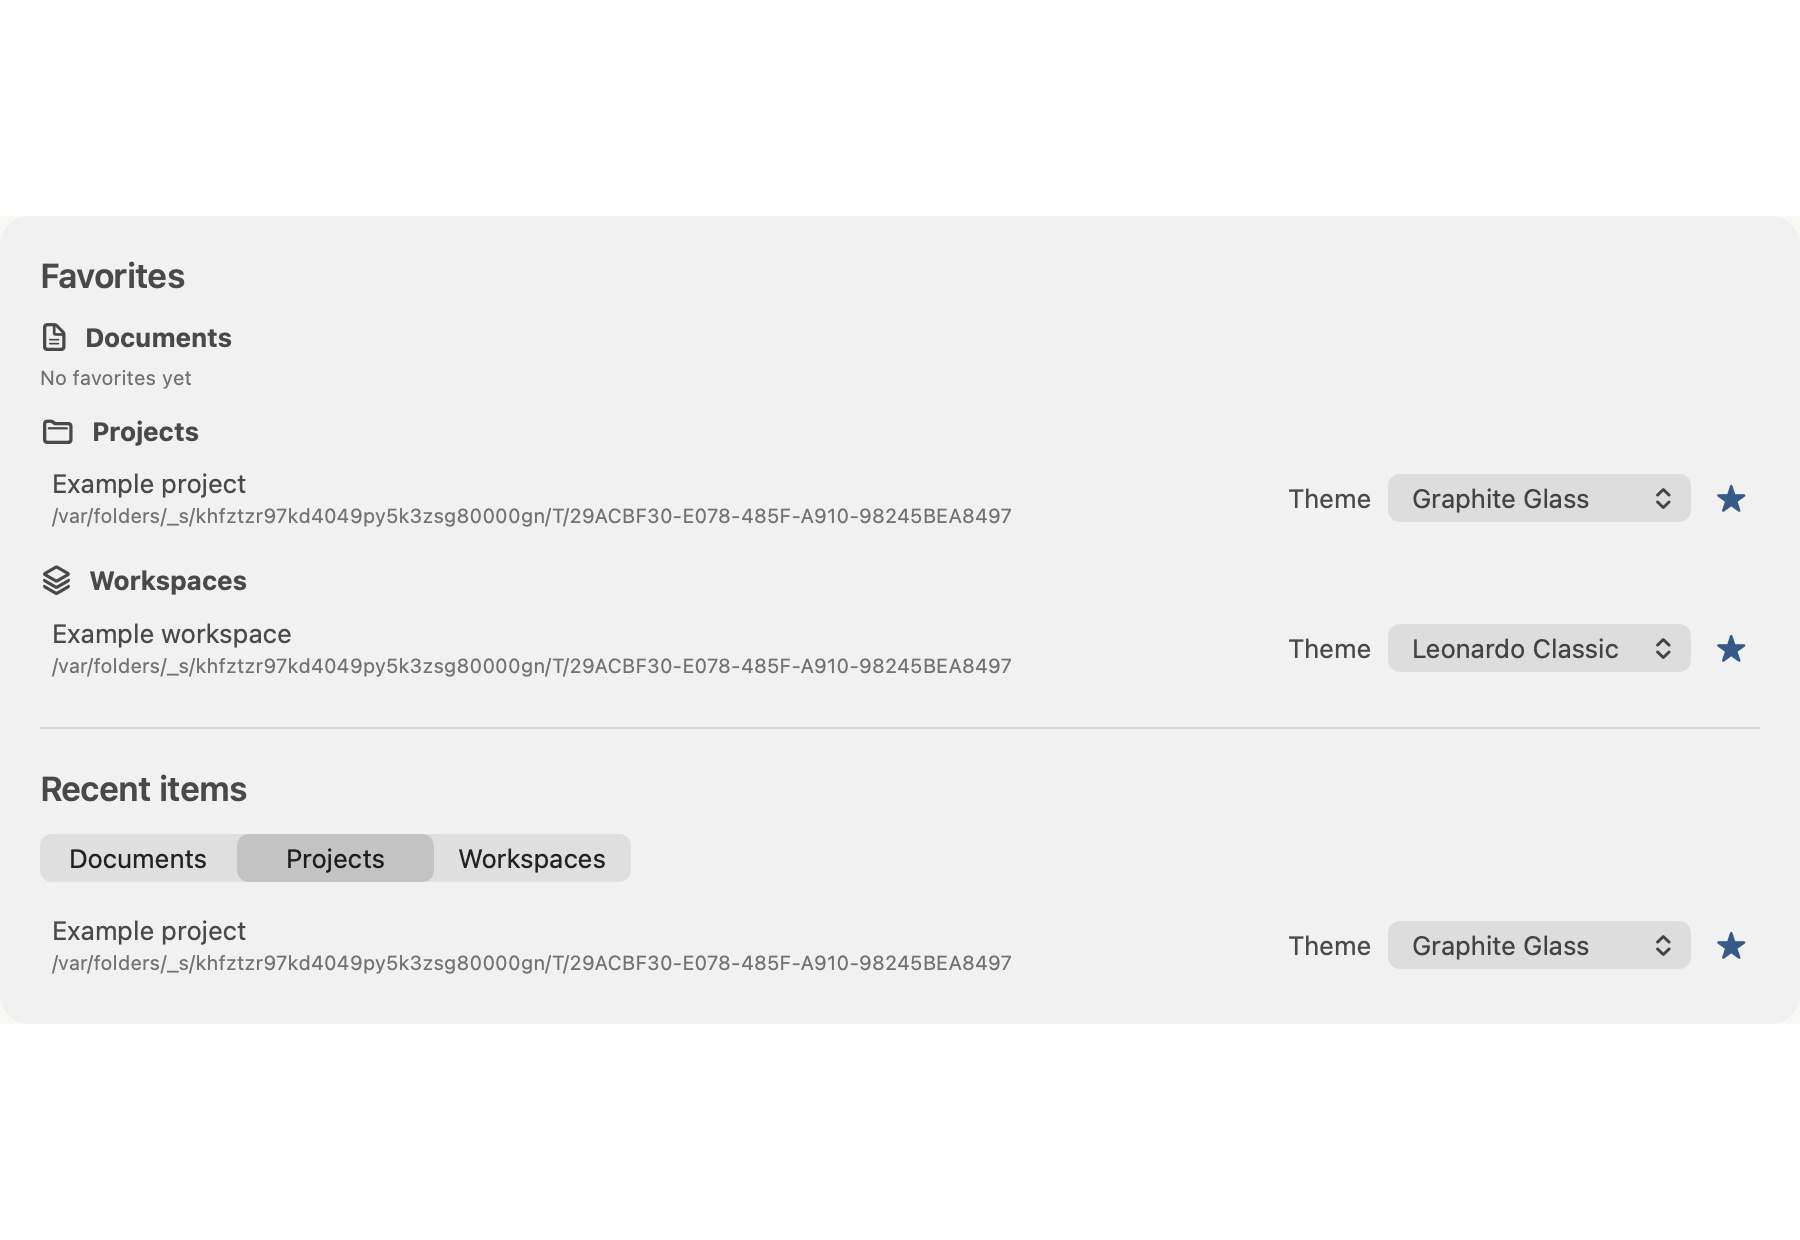
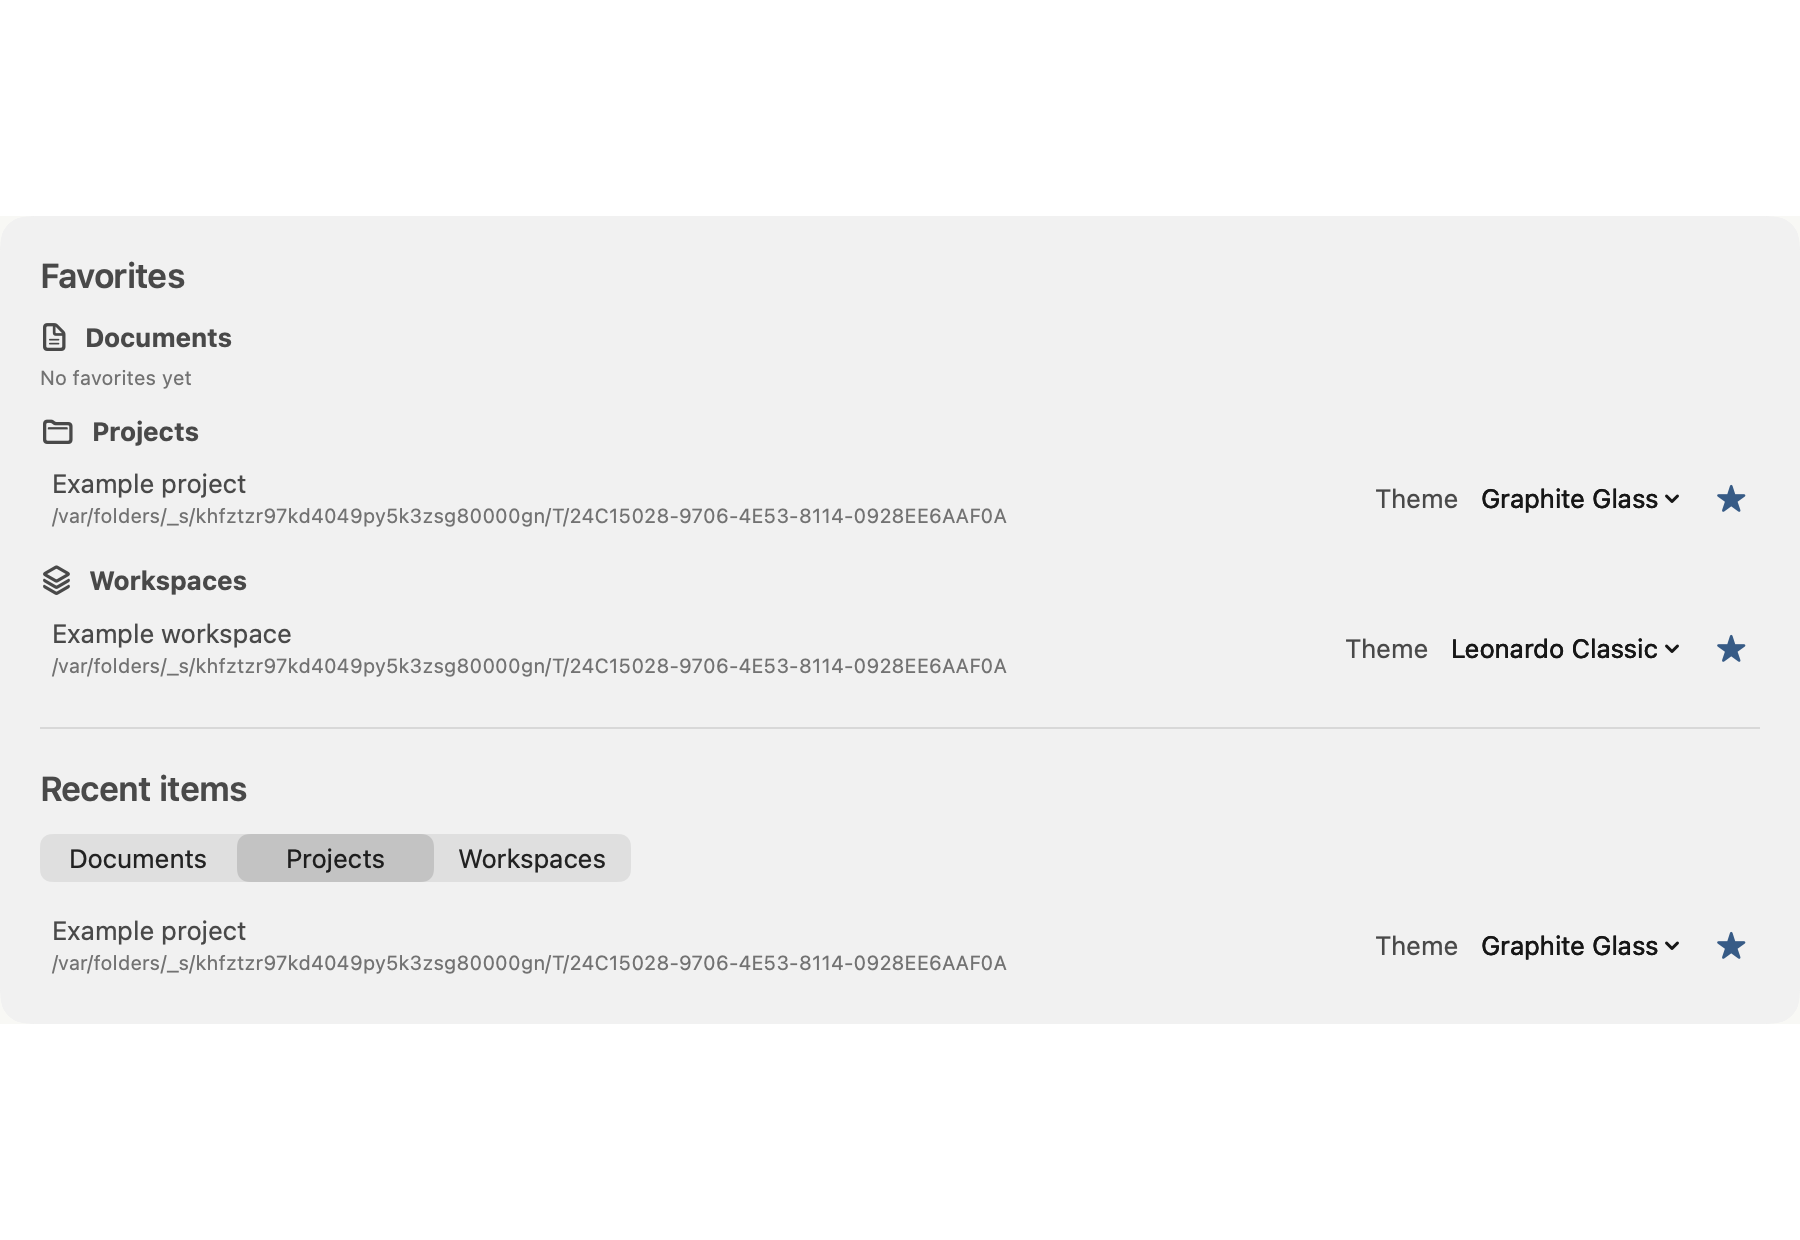
#304 Fixed: keep favorite theme menus readable across appearances (#300)

diff --git a/Sources/LeonardoApp/FavoriteThemePicker.swift b/Sources/LeonardoApp/FavoriteThemePicker.swift
@@ -6,19 +6,38 @@ struct FavoriteThemePicker: View {
     let url: URL
     let kind: FavoriteItem.Kind
 
+    private var selection: Binding<String> {
+        Binding(get: { session.favorite(url, kind: kind)?.palette?.rawValue ?? "inherit" },
+                set: { session.setFavoritePalette(PaletteID(rawValue: $0), for: url, kind: kind) })
+    }
+
+    private var selectedTitle: String {
+        session.favorite(url, kind: kind)?.palette.map { PaletteCatalog.definition(for: $0).displayName }
+            ?? L10n.text("Inherit")
+    }
+
     var body: some View {
-        Picker(L10n.text("Theme"), selection: Binding(
-            get: { session.favorite(url, kind: kind)?.palette?.rawValue ?? "inherit" },
-            set: { session.setFavoritePalette(PaletteID(rawValue: $0), for: url, kind: kind) }
-        )) {
-            Text(L10n.text("Inherit")).tag("inherit")
-            ForEach(PaletteCatalog.all) { palette in
-                Text(palette.displayName).tag(palette.id.rawValue)
+        HStack(spacing: 8) {
+            Text(L10n.text("Theme"))
+            Menu {
+                Picker(L10n.text("Theme"), selection: selection) {
+                    Text(L10n.text("Inherit")).tag("inherit")
+                    ForEach(PaletteCatalog.all) { palette in
+                        Text(palette.displayName).tag(palette.id.rawValue)
+                    }
+                }
+            } label: {
+                Text(selectedTitle)
             }
+            .menuStyle(.borderlessButton)
+            // Native menu labels also read accentColor; keep both tied to session text.
+            .tint(Color(hex: session.palette.tokens.text))
+            .accentColor(Color(hex: session.palette.tokens.text))
+            .help(L10n.text("Theme for this favorite"))
+            .accessibilityLabel(L10n.text("Theme") + ": " + url.lastPathComponent)
+            .accessibilityValue(selectedTitle)
+            .accessibilityIdentifier("favorite-theme-" + kind.rawValue + "-" + url.path)
         }
         .fixedSize()
-        .help(L10n.text("Theme for this favorite"))
-        .accessibilityLabel(L10n.text("Theme") + ": " + url.lastPathComponent)
-        .accessibilityIdentifier("favorite-theme-" + kind.rawValue + "-" + url.path)
     }
 }

diff --git a/Tests/LeonardoAppTests/FavoriteThemeTests.swift b/Tests/LeonardoAppTests/FavoriteThemeTests.swift
@@ -255,13 +255,20 @@ final class FavoriteThemeTests: XCTestCase {
                 .background(session.surfaceColor).modifier(SessionAppearance(session: session)))
             let name = "favorite-themes-\(locale.rawValue)-\(width)"
             try await NativeViewCaptureSupport.capture(view, size: NSSize(width: width, height: 620),
-                to: directory.appendingPathComponent(name + ".png"), title: "Favorite themes QA")
+                to: directory.appendingPathComponent(name + ".png"), title: "Favorite themes QA") { view in
+                    // Keep native host appearance light while the session can be dark.
+                    // This reproduces mixed-appearance rendering from the macOS CI host.
+                    view.appearance = NSAppearance(named: .aqua)
+                    view.window?.appearance = NSAppearance(named: .aqua)
+                    view.layoutSubtreeIfNeeded()
+                }
             let metadata: [String: Any] = [
                 "head": environment["EVIDENCE_SHA"] ?? "unavailable; local source manifest required",
                 "captured_at": ISO8601DateFormatter().string(from: Date()),
                 "surface": "Native NSHostingView SavedItemsView; synthetic project/workspace favorites and starred recent project",
                 "viewport_points": [width, 620], "pixel_dimensions": try NSBitmapImageRep(data: Data(contentsOf: directory.appendingPathComponent(name + ".png"))).map { [$0.pixelsWide, $0.pixelsHigh] } ?? [],
                 "language": locale.rawValue, "palette": palette.rawValue,
+                "native_host_appearance": "Aqua (including the dark session fixture)",
                 "capture_mode": "native component bitmap", "browser": "N/A; AppKit/SwiftUI",
                 "limitations": "Component evidence; no packaged startup or new-process claim"
             ]

diff --git a/doc/user-guide.md b/doc/user-guide.md
@@ -12,6 +12,7 @@ Open documents from the app or Finder’s **Open With** menu. Distribution build
 - **Project:** open a folder, navigate its files, search names and content, and create, rename, move or delete items. Folders load children on expansion. Recent projects appear in the toolbar menu.
 - **Workspace:** select or create a root folder, discover its projects, and create, rename or delete project folders from the workspace manager.
 - **Recent items:** File provides separate document, project and workspace histories. Entries show their parent path; unavailable targets are disabled. Each submenu can clear its own history.
+- **Favorites:** use the stars on Home or File → Favorites to keep documents, projects and workspaces available independently of recent history. Favorite projects and workspaces have a Theme dropdown, also shown on their starred Recent items rows. Opening the same item from Recents uses that association. Inherit restores project/global appearance; a workspace theme takes priority for its contained projects. Leaving the workspace or project context removes its theme override without changing shared project settings.
 - **Focus:** hides project navigation and the inspector while preserving the document and project. Toggle it again to restore those panels.
 - **Reading / Editing / Split:** protected-by-default source and rendered-text editing, shared document undo and an approximately synchronized preview. Unlock the toolbar padlock to edit; use Save or ⌘S to persist changes. Unsaved drafts are marked explicitly and closing or navigating away offers Save, Discard or Cancel. Preview editing preserves untouched Markdown; raw HTML, rendered math and diagrams are edited through the raw Edit view. External file changes reload clean documents; conflicting edits stay protected until you reload or save a copy.
 

diff --git a/doc/validation/favorite-themes/README.md b/doc/validation/favorite-themes/README.md
@@ -1,6 +1,6 @@
 # Favorite appearance
 
-Tracking: [#300](https://github.com/PinedaTec-EU/LeonardoMD/issues/300) and [#303](https://github.com/PinedaTec-EU/LeonardoMD/issues/303).
+Tracking: [#300](https://github.com/PinedaTec-EU/LeonardoMD/issues/300) [#303](https://github.com/PinedaTec-EU/LeonardoMD/issues/303) and [#304](https://github.com/PinedaTec-EU/LeonardoMD/issues/304).
 
 The implementation-owned captures render the actual `SavedItemsView` and
 `FavoriteThemePicker` through the existing XCTest `NativeViewCaptureSupport`
@@ -33,3 +33,10 @@ roundtrips, stable kind/path identity and merging independent appearance changes
 Context-exit regressions additionally cover dismissing the workspace manager
 without a project, detaching a contained project, standalone document opening
 and Save Copy. A retained workspace location alone does not activate its palette.
+
+The favorite dropdown uses a borderless native Menu with a Picker for its checked
+options. The closed label and disclosure inherit the active palette's text color
+through SwiftUI tint and native accent color. Capture fixtures explicitly force
+an Aqua host even for the dark session, covering the mixed-appearance case that
+made the prior popup's selected text and arrows unreadable on CI. Original local
+2× popup captures were readable; the 1× CI artifact is the defect evidence.

diff --git a/.wiki/current-state.md b/.wiki/current-state.md
@@ -148,3 +148,8 @@ Workspace context-exit regression [#303](https://github.com/PinedaTec-EU/Leonard
 a remembered `workspaceURL` alone never activates its favorite palette. Only an
 open workspace manager or a contained project does. Standalone opening, detach
 and Save Copy close the manager; regression tests cover each exit.
+
+Favorite menu contrast [#304](https://github.com/PinedaTec-EU/LeonardoMD/issues/304):
+closed theme menus use session text tokens for both tint and native accent color.
+Native capture fixtures force Aqua hosting even in the graphite session to cover
+mixed AppKit/SwiftUI appearance; local and CI image provenance are distinct.
